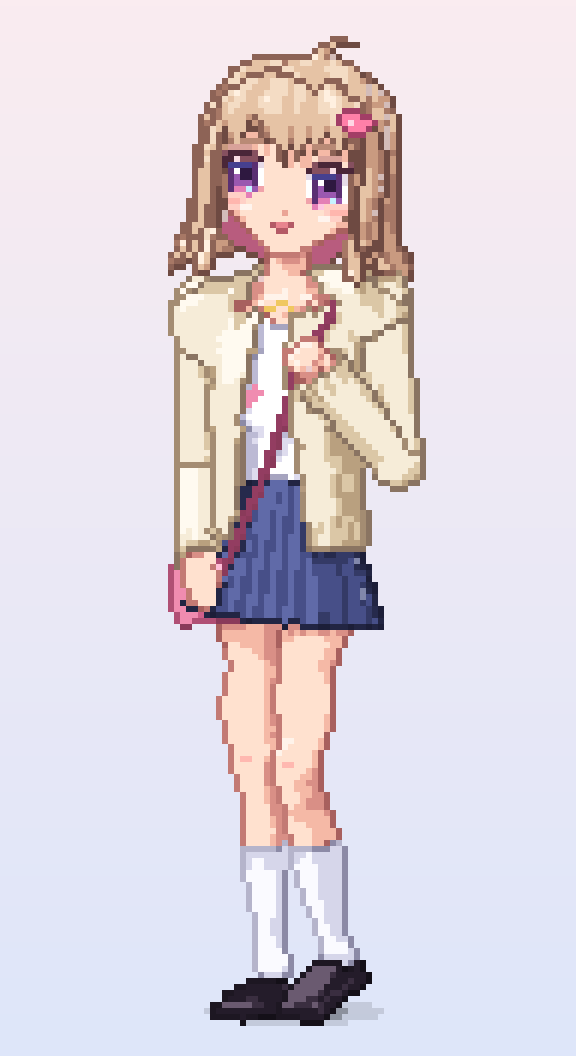
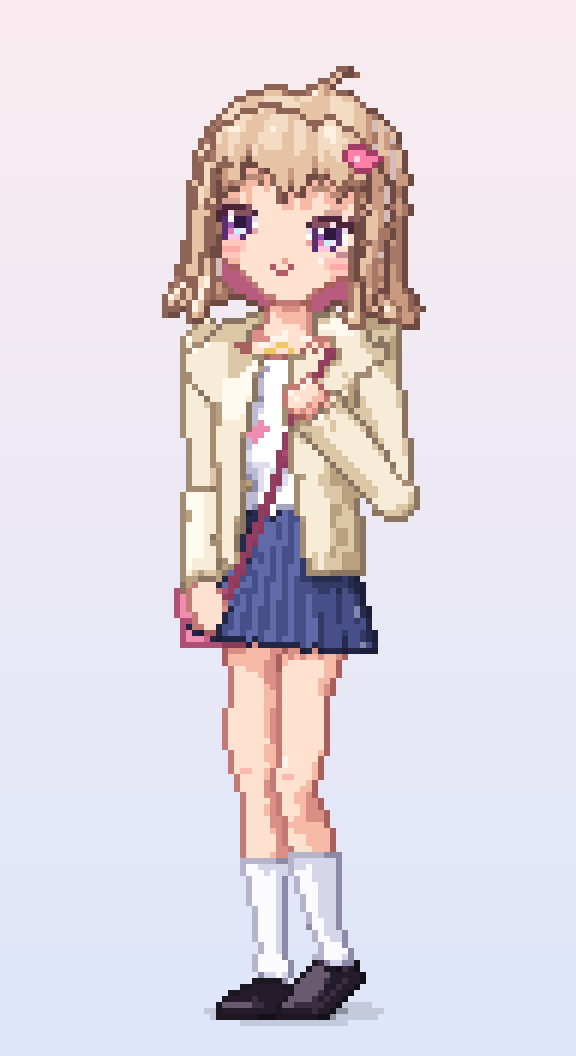
可愛さの検討（docs/12）を追加し、v6 として目・表情・顔の比率・体を調整
- docs/12: ベビースキーマ、狸顔の「目と口の三角形」比率、目の大きさ
  （大きすぎると不自然）と可愛い目の形、表情、小柄な体の比率
- draw_mio_3d.py (v6): 頭 1.06 倍・首から下 0.94 倍（約4.75頭身）、
  丸い頬と小さく丸い顎、目を下げ口を近づけた三角形（T=0.43）、
  8×6 の優しいたれ目（黒目がち、瞳の上部がまぶたに少し隠れる）、
  ∪の口とほんのり困り眉。SDF グループに拡大縮小＋移動（set_xf）を追加
- 比較画像（v5/v6、目の大きさ、体の大きさ）、README、docs/11 の案内を更新

Claude-Session: https://claude.ai/code/session_015jm7LntmaSVAPPtmN3r4zX

diff --git a/pixel_art_character/README.md b/pixel_art_character/README.md
@@ -2,7 +2,7 @@
 
 生成AI（LLM）に渡して、**画像生成モデルを使わずに、テキストとコードだけで** アニメ調のドット絵キャラクターを描けるようにするための資料です。
 
-![ミオ（v5：3D の人体モデルから描画、2020年代風の目）](character/output/mio3d_x6.png)
+![ミオ（v6：3D の人体モデルから描画、狸顔の比率・小柄）](character/output/mio3d_x6.png)
 
 ## 資料
 
@@ -20,6 +20,7 @@
 | ⑨ | [docs/09_proportion_pose_anatomy.md](docs/09_proportion_pose_anatomy.md) | **体の比率・顔の比率・ポーズ・人体構造の検討**：描いた絵の計測と問題点、比率の関係と目安、ルーミス法をもとにしたアニメ顔の比率、重心とコントラポスト、骨の長さと短縮、**骨格から肉付けして描く方法** |
 | ⑩ | [docs/10_3d_anatomy_and_anime_3d.md](docs/10_3d_anatomy_and_anime_3d.md) | **骨格・筋肉を3次元で捉えて描く方法とアニメ調3D**：4つの層（骨格・骨の目印・筋肉・脂肪と皮膚）、骨の目印と部位別の筋肉の表、脚のリズム、女性・アニメでの扱い、セルルックの技法（法線転写・輪郭線・髪の束・平らな目）、**3D の人体モデルを作ってドット絵にする手順** |
 | ⑪ | [docs/11_anime_face_body_hair_eyes.md](docs/11_anime_face_body_hair_eyes.md) | **アニメ顔に合う体の比率・顔の輪郭と顔パーツ・髪型・目**：デフォルメ度のそろえ方と比率の目安（首・肩・手・足）、正面と3/4の輪郭、パーツの大きさと位置、つむじから流れる毛束の髪型、**目の構造・形・2010年代と2020年代の違い・塗りの層・ドットのテンプレート**、今風の口・鼻・頬 |
+| ⑫ | [docs/12_cuteness_face_eyes_body.md](docs/12_cuteness_face_eyes_body.md) | **もっと可愛く**：ベビースキーマ、狸顔の「目と口の三角形」の比率、目の大きさ（大きすぎると不自然）と可愛い目の形、表情（∪の口・ほんのり困り眉）、小柄な体の比率 |
 
 ## 制作例
 
@@ -33,7 +34,7 @@
 ## 生成AIへの渡し方（例）
 
 ```text
-添付の資料 00〜11 を読んでください。00 の手順に従い、
+添付の資料 00〜12 を読んでください。00 の手順に従い、
 画像生成は使わずに、Python（numpy, Pillow）でドット絵を描いてください。
 キャラクター: 〇〇（年齢感、性格、髪型、服、小物、ポーズ）
 キャンバス: 96×156px、正面立ち
@@ -46,6 +47,7 @@
 - アニメの影・線の傾向：[文春オンライン（ゲゲゲの鬼太郎 第6期キャラクターデザイン）](https://bunshun.jp/articles/-/9168)、[Impression Change of a Female Character in Illustration by Shadow](https://openaccess.cms-conferences.org/publications/book/978-1-964867-13-7/article/978-1-964867-13-7_16)、[animetics "Line Theory 101"](https://animetics.net/2014/12/20/fun-with-numbers-line-theory-101/)
 - 立体感：[Proko "Practical Guide to Realistic Shading"](https://proko.com/880)、[The Drawing Source "Value, Light and Form"](https://www.thedrawingsource.com/light-and-form.html)、[Skillshare "10 minutes to better drawing: Values"](https://www.skillshare.com/en/classes/10-minutes-to-better-drawing-values/1530960833)、[OpenGameArt "Chapter 4: Shadow and light"](https://opengameart.org/content/chapter-4-shadow-and-light)、[Pokebip「Lexique du pixel-art」](https://www.pokebip.com/page/fanarts/tutos/pixel-art/lexique)、[CLIP STUDIO 公式講座](https://www.clipstudio.net/oekaki/archives/151107)、[マイナビニュース（線の強弱）](https://news.mynavi.jp/article/pentaball-25/)、[Adobe「奥行き」](https://www.adobe.com/jp/creativecloud/roc/blog/design/quiz-challenge/depth.html)、[itch.io devlog（リムライト）](https://pixel-beef.itch.io/xdasher/devlog/192949/4-things-we-did-to-add-light-and-depth-to-our-pixel-art-game)
 - 3D の解剖とアニメ調 3D：[Anatomy for Sculptors（肩の骨の目印）](https://anatomy4sculptors.com/blog/shoulder-bony-landmarks/)、[Artists Network（体の描き方）](https://www.artistsnetwork.com/art-subjects/portrait-figure/how-to-draw-bodies-lea-colie-wight/amp)、[Proko（首の筋肉）](https://www.proko.com/course-lesson/how-to-draw-neck-muscles-anatomy-and-motion/notes)、[Dessindigo（首）](https://dessindigo.com/en/blog/amp/drawing-tutorial/how-draw-neck)、[Wikipedia "Vastus medialis"](https://en.wikipedia.org/wiki/Vastus_medialis)、[Creative Bloq（脚の描き方）](https://www.creativebloq.com/how-to/draw-legs)、[GDC Vault "GuiltyGearXrd's Art Style"](https://gdcvault.com/play/1022031/GuiltyGearXrd-s-Art-Style-The)、[Motomura Junya の講演資料](https://www.ggxrd.com/Motomura_Junya_GuiltyGearXrd.pdf)、[CGWORLD（セルルックの法線転写）](https://cgworld.jp/special/masterclass-online/vol15/ginneko3d/)、[CGWORLD（Pencil+ 法線コピー）](https://cgworld.jp/regular/pencil+3-vol3.html)、[lilToon の SDF 顔影](https://scrapbox.io/onigiri-tiken/%E3%80%90Unity%E3%80%91%E3%82%B7%E3%82%A7%E3%83%BC%E3%83%80%E3%83%BC%EF%BC%9AlilToon%E3%81%A7SDF%E3%82%92%E4%BD%BF%E3%81%A3%E3%81%9F%E9%A1%94%E5%BD%B1)、[3D モデルのアウトライン（背面法）](https://scrapbox.io/motoso/3D%E3%83%A2%E3%83%87%E3%83%AB%E3%81%AE%E3%82%A2%E3%82%A6%E3%83%88%E3%83%A9%E3%82%A4%E3%83%B3)、[Godot アニメ顔シェーダー](https://godotshaders.com/shader/anime-style-face-shader/)、[Blender のアニメ調表現](https://www.strayspark.studio/blog/how-to-get-anime-toon-look-blender)、[VRM の目のカスタマイズ](https://cgpaws.substack.com/p/customizing-3d-eyes-for-vrm)、[カートゥーン髪のモデリング研究](https://otik.zcu.cz/handle/11025/1722?locale=en)、[80 Level "Dead Cells Character Art Pipeline"](https://80.lv/articles/case-study-dead-cells-character-art-pipeline/)、[Inigo Quilez "Distance functions"](https://iquilezles.org/articles/distfunctions)
+- 可愛さ（ベビースキーマ・童顔）：[Glocker et al. 2009（ペンシルベニア大学リポジトリ）](https://repository.upenn.edu/cog_neuro_pubs/11)、[PMC（ベビースキーマの関連研究）](https://pmc.ncbi.nlm.nih.gov/articles/PMC3596402)、[Discover Magazine](https://www.discovermagazine.com/why-babies-are-so-cute-and-why-we-react-the-way-we-do-40634)、[福岡教育大学紀要（童顔の特徴）](https://fukuoka-edu.repo.nii.ac.jp/record/1145/files/sasayama_52_4.pdf)、[日本顔学会 抄録（たれ目の知覚）](https://www.psy.ritsumei.ac.jp/akitaoka/第25回日本顔学会大会（フォーラム顔学2020）・北岡抄録.pdf)、[i-voce（中顔面）](https://i-voce.jp/feed/2381461/)、[CLIP STUDIO（表情）](https://www.clipstudio.net/oekaki/archives/152475)、[Canva（かわいいイラスト）](https://canva.com/ja_jp/learn/how-to-draw-cute-illustrations/)、[Shihori Obata（アニメの目）](https://shihoriobata.com/blog/draw-anime-eyes/)
 - アニメ顔と体の調和・顔・髪・目：[Eurographics 2023（デフォルメの一貫性）](https://diglib.eg.org/items/5da8865a-1d3c-4d81-a831-397a77279f1f/full)、[筑波大学（SD 化の研究）](https://kanamori.cs.tsukuba.ac.jp/publications/nicoint2017/sd.pdf)、[Scrapbox「手の描き方」](https://scrapbox.io/p-hone/手の描き方)、[CLIP STUDIO（斜め顔）](https://www.clipstudio.net/oekaki/archives/176083)、[CLIP STUDIO TIPS（3/4 の顔）](https://tips.clip-studio.com/en-us/articles/5164)、[AnimeOutline（3/4 の女性の顔）](https://www.animeoutline.com/how-to-draw-anime-female-face-3-4-view/)、[Easy Drawing Guides（正面の顔）](https://easydrawingguides.com/how-to-draw-an-anime-head-and-face-in-front-view/)、[CLIP STUDIO（かわいい顔）](https://www.clipstudio.net/oekaki/archives/151661)、[Wacom（アニメの髪）](https://community.wacom.com/en-us/how-to-draw-anime-hair-a-step-by-step-tutorial/)、[AnimeOutline（3/4 の髪）](https://www.animeoutline.com/?p=8504)、[JustSketchMe（髪）](https://justsketch.me/how-to-draw-anime-hair/)、[CLIP STUDIO（髪）](https://www.clipstudio.net/oekaki/archives/160962)、[美的（外ハネボブ）](https://www.biteki.com/358111/)、[note「絵柄古い問題について」](https://note.com/koto_sfish/n/nf5967776bb2d)、[あにまんch](https://animanch.com/archives/21126591.html)、[nordsopra](https://nordsopra.com/2023/12/10/1202/)、[Togetter（目の変化）](https://togetter.com/li/1667999)、[大阪教育大学附属天王寺中学校（瞳の年代比較）](https://f.osaka-kyoiku.ac.jp/tennoji-j/wp-content/uploads/sites/4/2024/04/48-14.pdf)、[Japan Powered（目の新しい流行）](https://www.japanpowered.com/anime-articles/trending-anime-eye-design)、[Anime Art Magazine（2020年代の目）](https://animeartmagazine.com/want-to-keep-your-work-up-to-date-learn-about-popular-modern-2020s-anime-eyes/)、[note「絵柄改造計画#14」](https://note.com/himitsu_x4x/n/n4442835ebdfa)、[egaco（目の塗り方）](https://comic.smiles55.jp/guide/9879/)、[ichi-up（きゅるきゅるな瞳 2024）](https://ichi-up.net/2024/10)、[MediBang（瞳の構造と塗り方）](https://medibangpaint.com/use/2020/11/how-to-draw-eyes-2-colors/)、[Jeff Searle（目の構造）](https://jeffsearle.blogspot.com/2015/09/drawing-eye.html)、[drawmora（3/4 の目）](https://drawmora.com/how-to-draw-eyes-3-4-view/)、[KAKETA（涙袋）](https://kaketa.blog/archives/679)、[パルミー（目の種類）](https://www.palmie.jp/lessons/61)、[Pixel art eyes design](https://www.sandromaglione.com/articles/pixel-art-eyes-techniques-and-styles)
 - 比率・ポーズ・人体構造：[Life Drawing Academy "Contrapposto"](https://lifedrawing.academy/drawing-lessons/contrapposto)、[Life Drawing Academy "Female Body in Contrapposto"](https://lifedrawing.academy/drawing-lessons/how-to-draw-female-body)、[Getty "Strike a Pose"](https://www.getty.edu/education/k-12-learning/strike-a-pose-exploring-contrapposto)、[UW CSE458 "Posing"](https://courses.cs.washington.edu/courses/cse458/20au/content/projects/project6_animation_a/index.html)、[PoseMy.Art](https://posemy.art/blog/how-to-draw-dynamic-poses-guide/)、[Fine Art Tutorials "Loomis Method"](https://finearttutorials.com/guide/loomis-method/)、[Proko "How to Draw the Head"](https://proko.com/course-lesson/how-to-draw-the-head-front-view/notes)、[CLIP STUDIO 公式講座（頭身）](https://www.clipstudio.net/oekaki/archives/151156)、[Anime Art Academy（頭身と年齢）](https://animeartacademy.artstation.com/projects/qeLrNN)、[MediBang Paint（男女の骨格）](https://medibangpaint.com/en/use/2021/03/differences-between-male-and-female-skeletons)
 - ファッショントレンド：[Korea JoongAng Daily "Y2K fashion"](https://www.koreajoongangdaily.com/opinion/talking-trends-y2k-fashion/11024699)、[FUGA Studios "Korean fashion trends"](https://fuga-studios.com/en/blogs/journal/korean-fashion-trends)、[fun-japan](https://www.fun-japan.jp/jp/articles/14417)

diff --git a/pixel_art_character/docs/12_cuteness_face_eyes_body.md b/pixel_art_character/docs/12_cuteness_face_eyes_body.md
@@ -1,0 +1,154 @@
+# 12. もっと可愛く：顔の比率（狸顔の三角形）・目の大きさ・表情・小柄な体
+
+docs/11 の目安で描いた v5 は「整っているが少し大人びた」印象でした。この資料では **可愛さ（幼さ・親しみやすさ）** を上げるための比率を、研究と制作中のフィードバックからまとめ、v6 に反映しました。
+
+図：
+- `character/output/compare_v5_v6.png`：v5 と v6
+- `character/output/eye_size_study.png`：目の大きさの比較（v5・大きすぎ・v6）
+- `character/output/body_size_study.png`：体の大きさの比較（首から下を 1.0 / 0.94 / 0.88 倍）
+- `character/output/eye_modern_template_x24.png`：v6 の目（開き・半目・閉じ）
+
+---
+
+## 12-1. 可愛さの原理：ベビースキーマ
+
+- 動物行動学者ローレンツは、**大きな頭・丸い顔・大きな目** などの幼児的な特徴（ベビースキーマ）が「可愛い」と感じさせ、世話をしたくさせると提唱した。
+- Glocker ら（2009）は乳児の顔写真の **顔の幅と長さ、額・目・鼻・口の大きさ** を操作し、ベビースキーマが強いほど可愛いと評価され、世話をしたい気持ちも強くなることを実験で示した。
+- Sternglanz ら（1977）：**広い額＋小さな顎＋大きな目** の組み合わせが赤ちゃんの顔を可愛く見せる。
+- 日本の童顔研究（福岡教育大学・笹山）：子どもの顔の典型は **目鼻が顔の下半分に寄る・パーツどうしの距離が短い・顎が小さい**。童顔は親しみやすく見られやすい。
+
+アニメの可愛い顔はこれをデフォルメしたもの。ただし **やりすぎると不自然**（目が大きすぎる、頭が大きすぎる）。
+
+---
+
+## 12-2. 顔の比率：狸顔の三角形
+
+### 目と口の三角形
+両目の中心と口を結んだ三角形の **高さ ÷ 両目の間隔** を T とする。
+
+| 顔 | T の目安 | 印象 |
+|---|---|---|
+| 大人（写実） | 1.2〜1.4 | 面長、落ち着き |
+| 子ども（写実） | 0.9〜1.1 | 中顔面が短い |
+| アニメの標準 | 0.5〜0.7 | — |
+| **アニメの童顔・狸顔** | **0.4〜0.5** | 低く横に広い三角形。幼く可愛い |
+| v5 | 0.49 | — |
+| **v6** | **0.43** | 目を少し下げ、口を目に近づけた |
+
+### 狸顔の特徴（可愛い系の代表）
+| 要素 | 狸顔 | 対になる「狐顔」（クール・大人っぽい） |
+|---|---|---|
+| 輪郭 | 丸い、頬がふっくら、顎が小さく丸い | 面長、顎が尖る |
+| 目 | 丸みがあり **たれ目**、黒目がち | 切れ長、つり目 |
+| 目の位置 | 少し低く、やや離れ気味 | 高め、寄り気味 |
+| 鼻・口 | 小さく、目に近い（三角形が低い） | 口が目から遠い |
+| 額 | 広い | — |
+
+### v6 の顔の数値（H＝頭の高さ）
+| 項目 | 目安（可愛い系） | v5 | v6 |
+|---|---|---|---|
+| 頭身 | 4.6〜5.0（ドット絵の可愛い立ち絵） | 5.23 | **4.75** |
+| 顔の幅 ÷ 頭の高さ | 0.85〜0.9（丸顔） | 0.87 | 0.87（頬をふっくら、顎を U 寄りに） |
+| 目の中心（頭頂から） | 0.6〜0.63（額を広く） | 0.57 | **0.62** |
+| 口（頭頂から） | 0.82〜0.85 | 0.83 | 0.83 |
+| 目と口の三角形 T | 0.4〜0.5 | 0.49 | **0.43** |
+| 両目の間 ÷ 目の幅 | 0.85〜1.0（少し離れ気味が幼い） | 0.82 | **0.93** |
+| 頬・顎 | 頬ふっくら、顎は小さく丸い | V 寄り | U 寄りに |
+
+---
+
+## 12-3. 目の大きさ：大きすぎると不自然
+
+制作中、目を 9×9px（頭の高さの 0.27）に大きくしたところ **目が大きすぎて違和感がある** と指摘があり、逆に **半目のテンプレートくらいの大きさがちょうどよい** という評価でした。ベビースキーマの「大きな目」は、アニメではすでに十分デフォルメされているため、**さらに大きくするより「形・位置・瞳の割合」で可愛さを出す** 方が自然です。
+
+| | v5 | 大きすぎ | **v6** |
+|---|---|---|---|
+| 目の大きさ（幅×高さ） | 8×8 | 9×9 | **8×6** |
+| 目の高さ ÷ 頭の高さ | 0.26 | 0.27 | **0.19** |
+| 目の幅 ÷ 顔の幅 | 0.31 | 0.31 | **0.29** |
+| 上まぶた | 瞳の上に差し色の帯 | 同左 | **瞳の上部が少しまぶたに隠れる**（力の抜けた優しい目） |
+| 瞳 ÷ 目の幅 | 0.62 | 0.67 | 0.62（上下のまぶたに接する） |
+
+### 可愛い目のポイント（大きさ以外）
+1. **たれ目**：目尻を瞳の中心より下げる（優しい・おっとり）。
+2. **黒目がち**：瞳が目の幅の 6 割以上で、上下のまぶたに接する。白目を少なく。
+3. **力の抜けた上まぶた**：瞳の上部を少し隠す。見開いた目より柔らかい（半目の手前くらい）。
+4. **瞳孔は大きめ**（若いキャラ）。
+5. **ハイライトは主＋副**：光源側の上に主、反対側の下に小さな副、補色のきらめきを1点。ハイライトが無いと目が死んで見える。
+6. **涙袋と目の下の赤み**：幼さと血色。
+7. 左右の目を同じ方向へ向け、こちらを見る（v6 は顔が少しそれているので瞳孔をカメラ側へ）。
+
+### v6 の目（列0＝目尻、列7＝目頭）
+```text
+..ccc...   二重のライン
+k.KKKKk.   まつ毛の毛束（目尻に1本はね）
+KKKqkkkK   上まぶた（目尻が太く目頭へ細い、q＝白抜き）
+KwdLPPdw   瞳の上部がまぶたに少し隠れる。目尻が下がる（たれ目）。L＝ハイライト、P＝瞳孔
+.WdIPPdW   黒目がち（瞳 5px）
+.WdJxldp   下は明るいピンク、x＝きらめき、l＝副ハイライト、p＝目頭の赤み
+..dGGd..   扇形の照り返し（瞳の下端が下まぶたに接する）
+.bb.....   下まつ毛は目尻側だけ
+..tttt..   涙袋
+```
+
+---
+
+## 12-4. 表情
+
+| 要素 | 可愛く見せる | v6 |
+|---|---|---|
+| 口 | 小さく、**口角を上げた ∪**。待機ポーズでは大きく開けない | 4px の ∪ |
+| 眉 | 細く、ゆるいアーチ。**眉頭を少し上げる**（ほんのり困り眉）と守ってあげたくなる | 眉頭を1px 上げた |
+| 頬 | 涙袋のすぐ下に横長のやわらかい赤み | 2段階の赤み |
+| 頭 | 少し傾ける（首かしげ） | 6° |
+| 視線 | こちらを見る | 瞳孔をカメラ側へ |
+| 目 | 力の抜けたたれ目（12-3） | — |
+| 左右差 | 完全な左右対称は動きがなくなる | 3/4 向き・頭の傾きで非対称 |
+
+---
+
+## 12-5. 小柄な体
+
+体は「少し小さめ」を意識すると、同じ顔でも幼く可愛く見えます。v6 は **首から下だけを 0.94 倍** にしました（頭と目の大きさは変えない）。
+
+| 項目 | docs/11 の標準 | **可愛い系（小柄）** | v5 | v6 |
+|---|---|---|---|---|
+| 頭身 | 5〜6 | 4.6〜5.0 | 5.23 | 4.75 |
+| 首の長さ | 0.25〜0.35 H | 0.24〜0.3 H | 0.28 | 0.25 |
+| 首の幅 ÷ 顔の幅 | 0.33〜0.4 | 0.28〜0.33（細め） | 0.33 | 0.28 |
+| 肩幅 ÷ 顔の幅 | 1.4〜1.7 | 1.2〜1.4（狭め） | 1.47 | 1.24 |
+| 手の長さ | 0.4〜0.45 H | 0.33〜0.4 H | 0.38 | 0.34 |
+| 足の長さ | 0.65〜0.8 H | 0.55〜0.65 H | 0.67 | 0.59 |
+| 手足 | すらっと | 細く、関節は小さく | — | 全体を 0.94 倍 |
+| 脚の向き | — | 膝を少し内へ（内股） | 遊脚を内へ | 同じ |
+
+- 体を小さくすると相対的に頭が大きくなるが、**目のスタンプは固定サイズ** なので目は大きくならない（目の大きさと頭の大きさを別々に調整できる）。
+- 小さくしすぎると（0.88 倍、`body_size_study.png` の右）ちびキャラ寄りになり、服やポーズの情報が入らなくなる。
+
+### 3D での実装
+距離関数は **点を 1/k 倍の位置で評価し、結果を k 倍** すれば、形を k 倍に拡大縮小できる（`Group.set_xf`）。体のパーツは足元を中心に 0.94 倍、頭のパーツは縮小後の首の付け根に 1.06 倍で載せる。
+
+---
+
+## 12-6. チェックリスト
+
+- [ ] 目と口の三角形が低く横に広い（T≈0.4〜0.5）
+- [ ] 目は少し低い位置（0.6〜0.63）で、額が広い
+- [ ] 丸顔（顔の幅 ≈ 頭の高さの 0.87）、頬ふっくら、顎は小さく丸い
+- [ ] 目は大きすぎない（高さ 0.18〜0.25 H、幅 0.27〜0.30）。可愛さは形と瞳の割合で出す
+- [ ] たれ目・黒目がち・瞳がまぶたに接する・力の抜けた上まぶた
+- [ ] 主＋副ハイライト、涙袋、目の下の赤み
+- [ ] 口は小さな ∪、眉頭を少し上げる
+- [ ] 体は小柄（4.6〜5 頭身、肩は顔の幅の 1.2〜1.4、手足は小さめだが小さすぎない）
+
+---
+
+## 参考にした情報
+
+- ベビースキーマ：Glocker et al. (2009) "Baby Schema in Infant Faces Induces Cuteness Perception and Motivation for Caretaking in Adults"（Ethology）、Discover Magazine、Science ABC、PMC の関連論文
+- 童顔の特徴：福岡教育大学紀要（笹山郁生）、日本顔学会の抄録（北岡、たれ目の知覚）
+- 中顔面と三角形のバランス：i-voce、MAQUIA（美容記事。美人印象の話で、幼さの根拠ではない点に注意）
+- 狸顔・動物顔：動物顔診断の記事（定義は曖昧なため、特徴の傾向として扱った）
+- 可愛い目の描き方（瞳の大きさ・上下のまぶたに接する・ハイライト）：アニメの目の描き方の各チュートリアル、Shihori Obata "How to Draw Anime Eyes"
+- 表情：CLIP STUDIO 公式講座（表情の描き方）、Canva「かわいいイラストの描き方」
+- 制作中のフィードバック：「目が大きすぎると違和感」「半目のテンプレートくらいがちょうどよい」「狸顔くらいの三角形の比率が幼く可愛い」「体はもう少し小さめ」

diff --git a/pixel_art_character/character/README.md b/pixel_art_character/character/README.md
@@ -1,6 +1,6 @@
 # キャラクター制作例：「ミオ」（現代風の可愛い女性キャラクター）
 
-資料 `../docs/00〜11` を参考に、**画像生成を使わず** Python コードだけで描いたドット絵です。
+資料 `../docs/00〜12` を参考に、**画像生成を使わず** Python コードだけで描いたドット絵です。
 
 | 出力 | 内容 |
 |---|---|
@@ -16,7 +16,10 @@
 | `output/compare_v3_v4.png` | v3（2D）と v4（3D）の比較 |
 | `output/compare_v4_v5.png` | v4 と v5（体の比率・顔の輪郭・髪・2020年代の目）の比較 |
 | `output/face_classic_vs_modern.png` | 目と顔の表現：2010年代風（v4）と2020年代風（v5） |
-| `output/eye_modern_template_x24.png` | v5 の目のドット（開き・半目・閉じ） |
+| `output/eye_modern_template_x24.png` | v6 の目のドット（開き・半目・閉じ） |
+| `output/compare_v5_v6.png` | v5 と v6（狸顔の比率・優しい目・丸顔・小柄な体）の比較 |
+| `output/eye_size_study.png` | 目の大きさの比較（v5 / 大きすぎ / v6） |
+| `output/body_size_study.png` | 体の大きさの比較（首から下 1.0 / 0.94 / 0.88 倍） |
 | `output/pose_skeleton_x5.png` | ポーズの検討図：頭の高さの目盛り、骨格、重心線（緑）、肩と骨盤の傾き（橙） |
 
 再生成するには: v4 は `python3 draw_mio_3d.py`（約45秒）、v3 は `python3 draw_mio.py`（Python 3 / numpy / Pillow が必要）。比率の計測結果と骨の長さのチェックが表示される
@@ -195,3 +198,25 @@ v1〜v3 は「正面から見た輪郭」を直接描いていたため、骨格
 ### まだ残っている課題
 - 髪の毛先の流れ（風や動き）、ハイライトの形の作り込み。
 - 目のテンプレートは1種類（たれ目・おっとり）。表情差分（笑い目、驚きなど）を 2020年代風で作る必要がある。
+
+---
+
+## 8. v6：もっと可愛く（docs/12 を適用）
+
+![v5 と v6](output/compare_v5_v6.png)
+
+| 変更 | v5 | v6 |
+|---|---|---|
+| 頭身 | 5.23 | 4.75（頭 1.06 倍、首から下 0.94 倍） |
+| 顔 | 頬〜顎が V 寄り | 頬をふっくら、顎を小さく丸く（U 寄り） |
+| 目と口の三角形（高さ÷両目の間隔） | 0.49 | 0.43（目を下げ、口を目に近づけた狸顔の比率） |
+| 目の位置 | 0.57 | 0.62（額を広く） |
+| 両目の間 | 片目の幅の 0.82 | 0.93（少し離れ気味） |
+| 目 | 8×8（頭の 0.26） | 8×6（頭の 0.19）：瞳の上部が少しまぶたに隠れる優しいたれ目、黒目がち、瞳が上下のまぶたに接する |
+| 口・眉 | 小さく開いた口、まっすぐな眉 | 口角を上げた ∪、眉頭を少し上げたほんのり困り眉 |
+| 体 | 肩幅＝顔の 1.47 | 1.24（小柄、手足も細く） |
+
+途中で目を 9×9 に大きくした版は「目が大きすぎて違和感がある」との指摘を受け、半目のテンプレートくらいの大きさ（8×6）にしました（`eye_size_study.png`）。
+
+![目の大きさ](output/eye_size_study.png)
+![体の大きさ](output/body_size_study.png)

diff --git a/pixel_art_character/docs/11_anime_face_body_hair_eyes.md b/pixel_art_character/docs/11_anime_face_body_hair_eyes.md
@@ -32,6 +32,8 @@
   4. ただし **手と足を小さくしすぎない**（小さすぎる手は初心者が陥りやすい失敗とされる）
 
 ### 比率の目安（5〜6頭身の可愛い系女性。H＝頭の高さ、顔の幅＝目の高さでの顔の幅）
+
+> さらに幼く・小柄に可愛くする場合の目安（頭身 4.6〜5、肩・手足を小さめ、目と口の三角形など）は docs/12 を参照。
 | 部位 | 目安 | v4 | v5 | メモ |
 |---|---|---|---|---|
 | 頭身 | 5〜6 | 5.1 | 5.2 | 小さいドット絵では顔が読める大きさを優先 |
